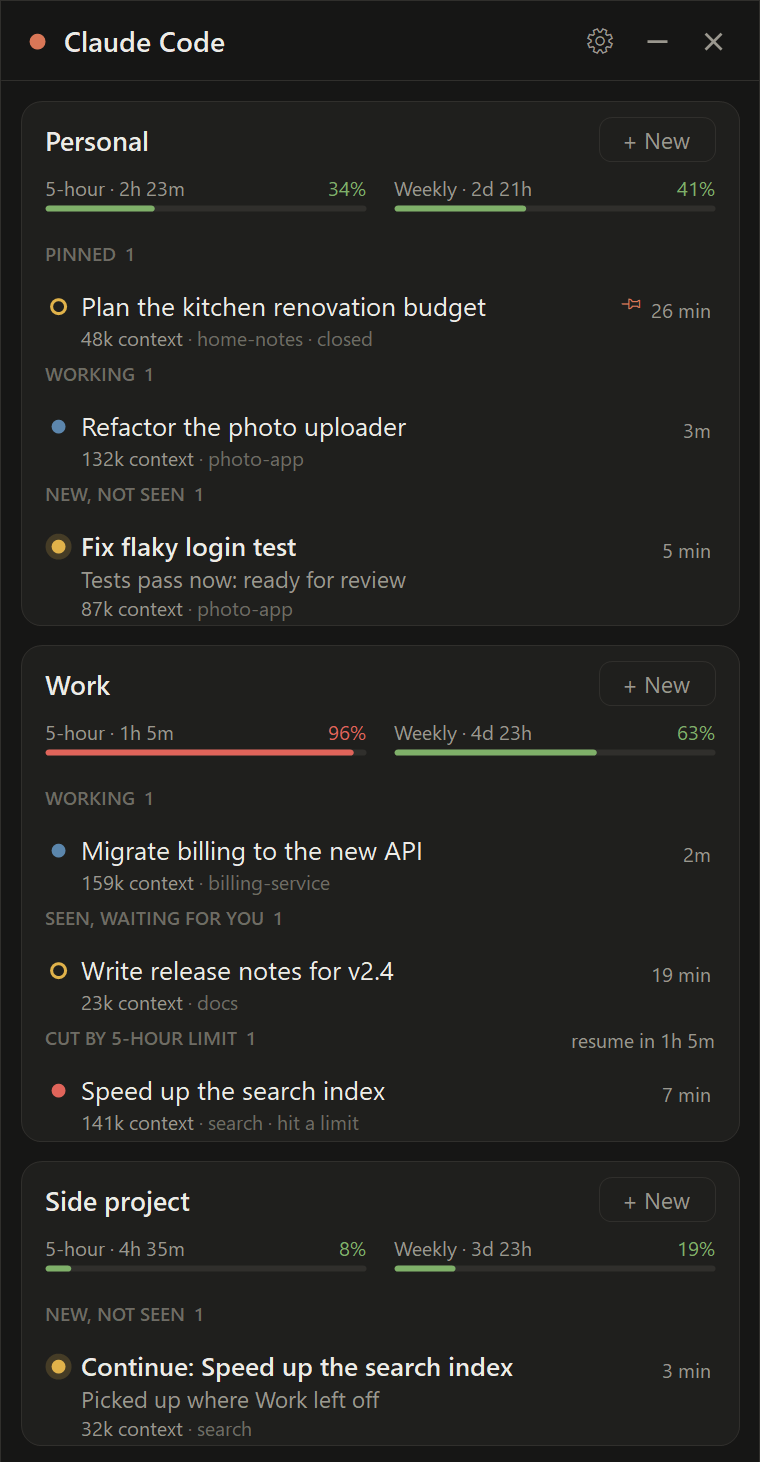
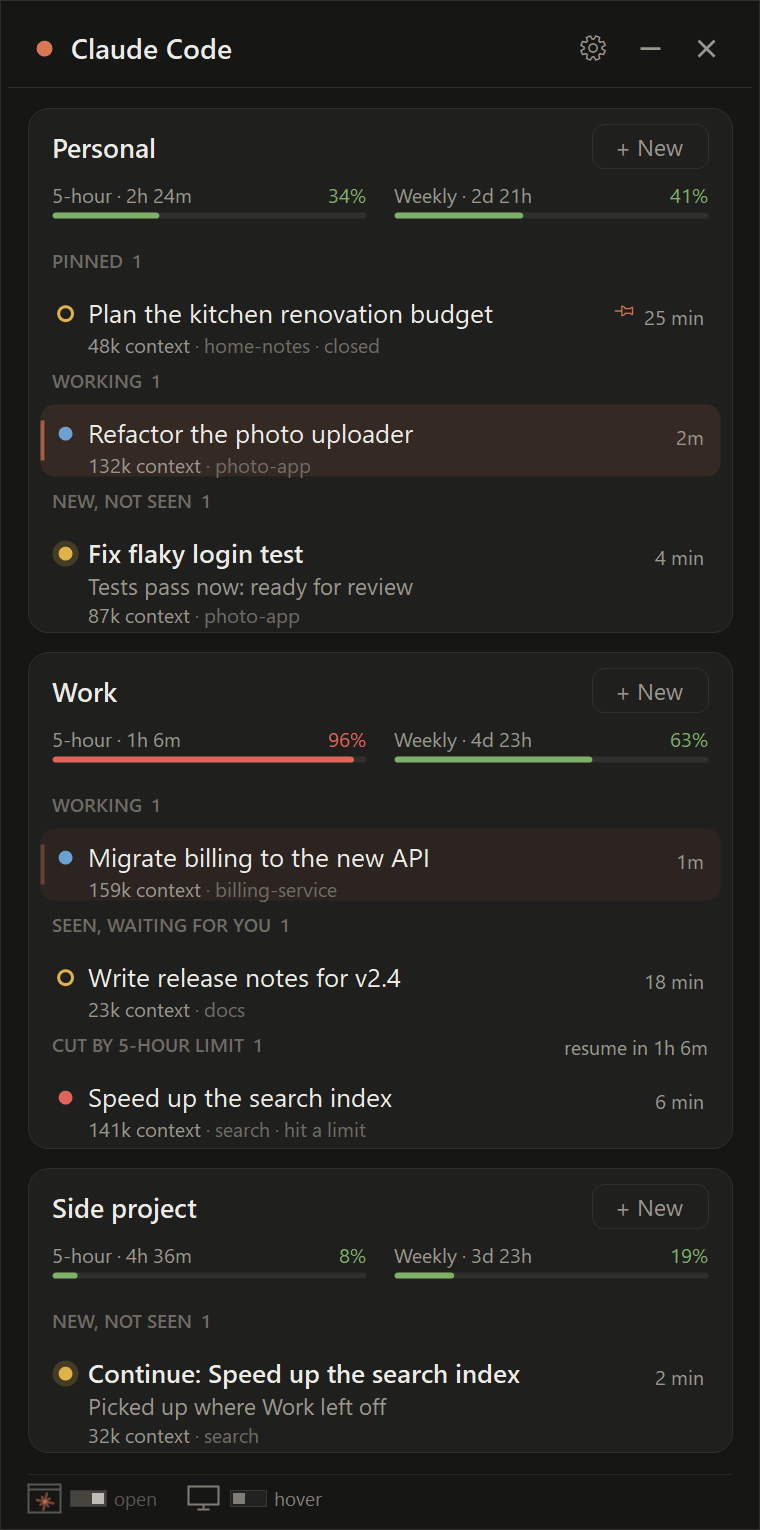
New README pictures, taskbar bar picture, settings window opens without a white flash
- Panel, settings and taskbar-bar pictures redrawn from the sample accounts
  (picture mode can now draw the bar and the open-conversation highlight)
- README describes the bar on the taskbar, stays-open / hover per context,
  instant switching and the open-conversation highlight
- Settings window stays hidden until fully drawn

diff --git a/src/tracker/Tray.cs b/src/tracker/Tray.cs
@@ -99,12 +99,16 @@ static class ClaudeTray
         if (args.Length > 2 && args[0] == "--render-panel")   // for pictures: draws the panel from saved data (JSON) to a picture
         {
             State = (Dictionary<string, object>)new JavaScriptSerializer { MaxJsonLength = int.MaxValue }.DeserializeObject(File.ReadAllText(args[1]));
+            // Sample conversations shown as open in their account's window (and the one in front).
+            Func<string, HashSet<string>> ids = key => { var h = new HashSet<string>(); object v; if (State.TryGetValue(key, out v) && v is object[]) foreach (var o in (object[])v) h.Add((string)o); return h; };
+            Data.OnScreen = ids("onScreen"); Data.OnScreenFront = ids("onScreenFront");
             panel = new Panel { Location = new Point(-5000, -5000) };
             if (args.Length > 4) panel.Size = new Size(int.Parse(args[3]), int.Parse(args[4]));
             panel.Show(); Application.DoEvents();
             // Off screen nothing paints, and the board only grows to fit while painting: paint it once to a throwaway picture.
             for (int k = 0; k < 2; k++) using (var tmp = new Bitmap(Math.Max(1, panel.Board.Width), Math.Max(1, panel.Board.Height))) { panel.Board.DrawToBitmap(tmp, new Rectangle(0, 0, tmp.Width, tmp.Height)); Application.DoEvents(); }
             using (var b = new Bitmap(panel.Width, panel.Height)) { panel.DrawToBitmap(b, new Rectangle(0, 0, panel.Width, panel.Height)); b.Save(args[2]); }
+            if (args.Length > 5) panel.RenderBar(args[5]);   // and the bar on the taskbar
             return;
         }
         if (args.Length > 0 && args[0] == "--manage") { Application.Run(new ManageForm()); return; }
@@ -696,6 +700,19 @@ class Panel : Form
     DateTime flashUntil = DateTime.MinValue;
     public void FlashNew() { flashUntil = DateTime.UtcNow.AddSeconds(4); }
 
+    // For pictures: the bar on the taskbar, drawn to a file.
+    public void RenderBar(string path)
+    {
+        var sz = PillSize;
+        using (var b = new Bitmap(sz.Width, sz.Height))
+        using (var g = Graphics.FromImage(b))
+        {
+            g.Clear(Ui.Bg);
+            PaintBar(g, sz.Width, sz.Height);
+            using (var pen = new Pen(Ui.Line)) g.DrawRectangle(pen, 0, 0, sz.Width - 1, sz.Height - 1);
+            b.Save(path);
+        }
+    }
     // Draws the bar on the taskbar (its own window, see BarWindow).
     public void PaintBar(Graphics g, int w, int h)
     {

diff --git a/src/tracker/Manage.cs b/src/tracker/Manage.cs
@@ -44,6 +44,19 @@ class ManageForm : Form
         try { DwmSetWindowAttribute(Handle, 35, ref caption, 4); } catch { }
         try { DwmSetWindowAttribute(Handle, 36, ref text, 4); } catch { }
         try { DwmSetWindowAttribute(Handle, 33, ref round, 4); } catch { }
+        // Stay hidden until the window is fully drawn, so it doesn't flash white first.
+        int cloak = 1;
+        try { DwmSetWindowAttribute(Handle, 13 /* DWMWA_CLOAK */, ref cloak, 4); } catch { }
+    }
+
+    [System.Runtime.InteropServices.DllImport("dwmapi.dll")] static extern int DwmFlush();
+    protected override void OnShown(EventArgs e)
+    {
+        base.OnShown(e);
+        Refresh();
+        try { DwmFlush(); } catch { }
+        int cloak = 0;
+        try { DwmSetWindowAttribute(Handle, 13, ref cloak, 4); } catch { }
     }
 
     public ManageForm()

diff --git a/README.md b/README.md
@@ -11,7 +11,10 @@ For Windows. Nothing to download but this source: it builds on your PC with the 
   &nbsp;&nbsp;
   <img src="docs/settings.png" width="420" alt="The accounts window: name and icon for each account, plus settings for hiding conversations and handing off at the limit">
 </p>
-<p align="center"><sub>Sample accounts and conversations.</sub></p>
+<p align="center">
+  <img src="docs/bar.png" width="216" alt="The bar on the taskbar: 34% of the 5-hour limit used, 2 new, 2 busy, 1 cut">
+</p>
+<p align="center"><sub>Sample accounts and conversations. Above: the panel and the settings window. Below: the bar that sits on the taskbar.</sub></p>
 
 ## What it does
 
@@ -22,6 +25,11 @@ For Windows. Nothing to download but this source: it builds on your PC with the 
 
 ### The taskbar widget (Claude Tracker)
 A small always-on-top panel, opened from its icon by the clock. The icon shows how much of your 5-hour limit you've used.
+
+- **A bar on the taskbar** shows your 5-hour use and how many conversations are new, busy or cut. Drag it left or right to any free spot on the taskbar.
+- **The panel opens above the bar.** Choose separately for when a Claude window is in front and for everything else: it **stays open**, or it **opens when the mouse rests on the bar** and fades away when the mouse leaves. Switch with the two small toggles at the bottom of the panel.
+- **Switching windows is instant:** the panel appears or disappears the moment you go to or from Claude. When Claude is minimised or brought back, it fades along with it.
+- **The conversation open in each account's window is highlighted**, a little stronger for the window in front.
 
 - **Usage per account:** 5-hour and weekly limits with how long until each resets.
 - **Active Claude Code conversations per account**, grouped:
